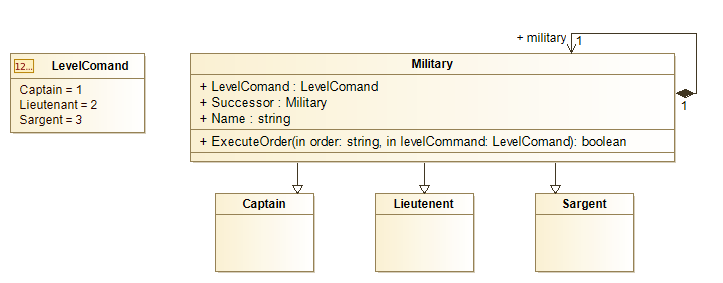
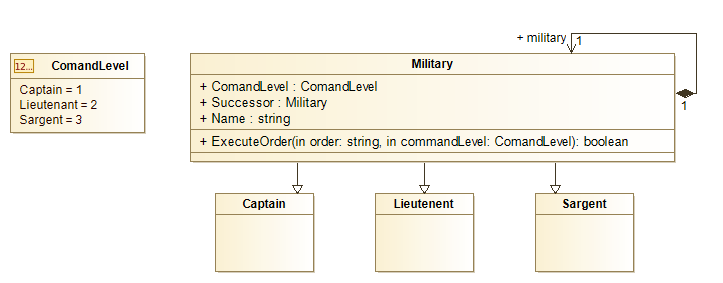
Fix CommandLevel

Changed region(s): [[0.5477, 0.4806, 0.8824, 0.5371], [0.2739, 0.2827, 0.5477, 0.3392], [0.0609, 0.1979, 0.1826, 0.2544]]

diff --git a/Behavioral/Object/ChainOfResponsability/Military.cs b/Behavioral/Object/ChainOfResponsability/Military.cs
@@ -2,24 +2,24 @@ namespace ChainOfResponsability
 {
     public class Military
     {
-        public readonly LevelCommand LevelCommand;
+        public readonly CommandLevel CommandLevel;
         public Military? Successor { get; set; }
         public string? Name { get; set; }
 
-        public Military(LevelCommand levelCommand, string name, Military successor)
+        public Military(CommandLevel commandLevel, string name, Military successor)
         {
-            this.LevelCommand = levelCommand;
+            this.CommandLevel = commandLevel;
             this.Successor = successor;
             this.Name = name;
         }
 
-        public bool ExecuteOrder(string order, LevelCommand levelCommand)
+        public bool ExecuteOrder(string order, CommandLevel commandLevel)
         {
-            if (this.LevelCommand != levelCommand)
+            if (this.CommandLevel != commandLevel)
             {
-                return Successor?.ExecuteOrder(order, levelCommand) ?? false;
+                return Successor?.ExecuteOrder(order, commandLevel) ?? false;
             }
-            System.Console.WriteLine($"order: {order} Level Command: {levelCommand}");
+            System.Console.WriteLine($"order: {order} CommandLevel: {commandLevel}");
             return true;
         }
     }

diff --git a/Behavioral/Object/ChainOfResponsability/Lieutenent.cs b/Behavioral/Object/ChainOfResponsability/Lieutenent.cs
@@ -2,11 +2,11 @@ namespace ChainOfResponsability
 {
     public class Lieutenent : Military
     {
-        public Lieutenent(string Name, Military successor): base(LevelCommand.Lieutenent, Name, successor) { }
+        public Lieutenent(string Name, Military successor): base(CommandLevel.Lieutenent, Name, successor) { }
 
         public override string ToString()
         {
-            return $"Nome: {this.Name}, LevelCommand: {this.LevelCommand}, Successor Name; {Successor?.Name}";
+            return $"Nome: {this.Name}, CommandLevel: {this.CommandLevel}, Successor Name; {Successor?.Name}";
         }
     }
 }

diff --git a/Behavioral/Object/ChainOfResponsability/Captain.cs b/Behavioral/Object/ChainOfResponsability/Captain.cs
@@ -2,11 +2,11 @@ namespace ChainOfResponsability
 {
     public class Captain : Military
     {
-        public Captain(string Name, Military successor): base(LevelCommand.Captain, Name, successor) { }
+        public Captain(string Name, Military successor): base(CommandLevel.Captain, Name, successor) { }
 
         public override string ToString()
         {
-            return $"Nome: {this.Name}, LevelCommand: {this.LevelCommand}, Successor Name; {Successor?.Name}";
+            return $"Nome: {this.Name}, CommandLevel: {this.CommandLevel}, Successor Name; {Successor?.Name}";
         }
     }
 }

diff --git a/Behavioral/Object/ChainOfResponsability/Sargent.cs b/Behavioral/Object/ChainOfResponsability/Sargent.cs
@@ -2,11 +2,11 @@ namespace ChainOfResponsability
 {
     public class Sargent : Military
     {
-        public Sargent(string Name, Military successor): base(LevelCommand.Sargent, Name, successor) { }
+        public Sargent(string Name, Military successor): base(CommandLevel.Sargent, Name, successor) { }
 
         public override string ToString()
         {
-            return $"Nome: {this.Name}, LevelCommand: {this.LevelCommand}, Successor Name; {Successor?.Name}";
+            return $"Nome: {this.Name}, CommandLevel: {this.CommandLevel}, Successor Name; {Successor?.Name}";
         }
     }
 }

diff --git a/Behavioral/Object/ChainOfResponsability/Program.cs b/Behavioral/Object/ChainOfResponsability/Program.cs
@@ -4,7 +4,7 @@ Sargent sgt = new Sargent("Silvio", null!);
 Lieutenent ltn = new Lieutenent("Danilo", sgt);
 Captain cap = new Captain("Oliveira", ltn);
 
-if (cap.ExecuteOrder("Fire!!!", LevelCommand.Sargent))
+if (cap.ExecuteOrder("Fire!!!", CommandLevel.Sargent))
     System.Console.WriteLine("Order executed!");
 else
     System.Console.WriteLine("Order not executed!");

diff --git a/Behavioral/Object/ChainOfResponsability/CommandLevel.cs b/Behavioral/Object/ChainOfResponsability/CommandLevel.cs
@@ -1,6 +1,6 @@
 namespace ChainOfResponsability
 {
-    public enum LevelCommand
+    public enum CommandLevel
     {
         Captain = 1,
         Lieutenent = 2,
